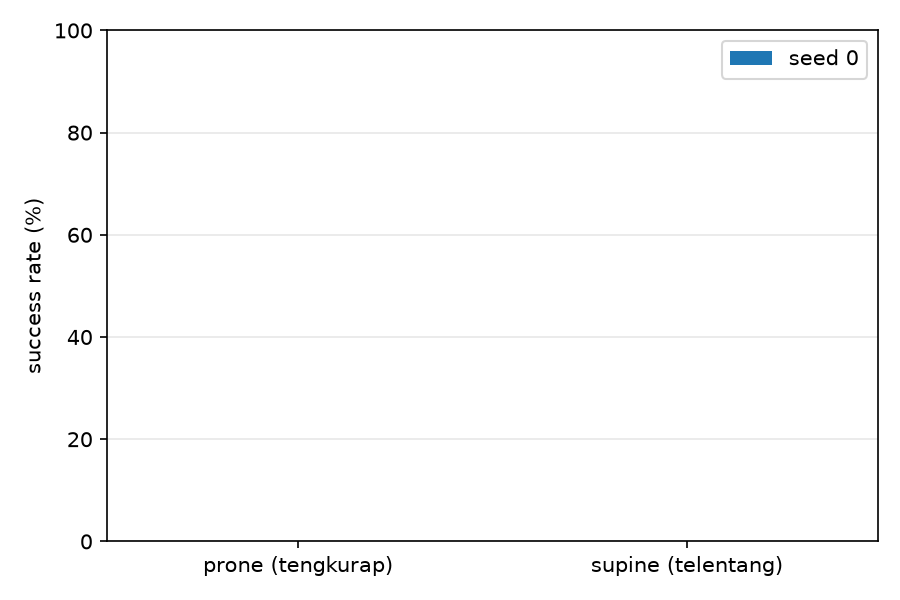
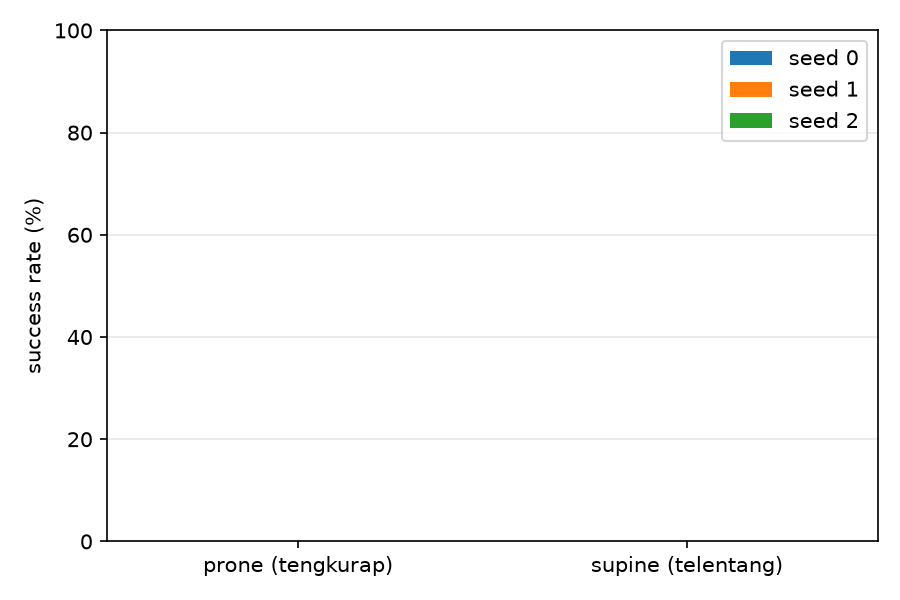
final evaluation: 0/100 on all models, diagnosis notes

Changed region(s): [[0.8089, 0.12, 0.9644, 0.24]]

diff --git a/results/summary.md b/results/summary.md
@@ -1,11 +1,15 @@
-Berkas dibaca: 1 (eval_logs_c2_s0_crossq_k1-standup-v0_1_k1-standup-v0_from0.csv)
+Berkas dibaca: 3 (eval_models_final_s0_from30.csv, eval_models_final_s1_from30.csv, eval_models_final_s2_from30.csv)
 
 ## Hasil per seed dan postur
 
 | Seed | Postur | Berhasil | Success rate | CI 95% (Wilson) | Median time-to-stand (s) | Terbalik/terhenti | Habis waktu |
 | --- | --- | --- | --- | --- | --- | --- | --- |
-| 0 | prone | 0/30 | 0.0% | -0.0-11.4% | - | 0 | 30 |
-| 0 | supine | 0/30 | 0.0% | -0.0-11.4% | - | 2 | 28 |
+| 0 | prone | 0/100 | 0.0% | 0.0-3.7% | - | 3 | 97 |
+| 0 | supine | 0/100 | 0.0% | 0.0-3.7% | - | 2 | 98 |
+| 1 | prone | 0/100 | 0.0% | 0.0-3.7% | - | 3 | 97 |
+| 1 | supine | 0/100 | 0.0% | 0.0-3.7% | - | 3 | 97 |
+| 2 | prone | 0/100 | 0.0% | 0.0-3.7% | - | 4 | 96 |
+| 2 | supine | 0/100 | 0.0% | 0.0-3.7% | - | 1 | 99 |
 
 ## Gabungan semua seed
 
@@ -13,10 +17,14 @@ Tiap seed adalah run terpisah. CI gabungan hanya perkiraan kasar karena semua se
 
 | Postur | Rata-rata antar seed | Simpangan baku antar seed | Gabungan | CI 95% gabungan |
 | --- | --- | --- | --- | --- |
-| prone | 0.0% | - | 0/30 | -0.0-11.4% |
-| supine | 0.0% | - | 0/30 | -0.0-11.4% |
+| prone | 0.0% | 0.0% | 0/300 | 0.0-1.3% |
+| supine | 0.0% | 0.0% | 0/300 | 0.0-1.3% |
 
 ## Contoh episode untuk video (nomor posisi uji, dipakai di record.py)
 
-- seed 0, prone: sukses tercepat [] | gagal [(0, 'timeout'), (1, 'timeout'), (2, 'timeout'), (3, 'timeout')]
-- seed 0, supine: sukses tercepat [] | gagal [(0, 'timeout'), (1, 'timeout'), (2, 'timeout'), (3, 'timeout')]
+- seed 0, prone: sukses tercepat [] | gagal [(30, 'timeout'), (31, 'timeout'), (32, 'terminated'), (33, 'timeout')]
+- seed 0, supine: sukses tercepat [] | gagal [(30, 'timeout'), (31, 'timeout'), (32, 'timeout'), (33, 'timeout')]
+- seed 1, prone: sukses tercepat [] | gagal [(30, 'timeout'), (31, 'timeout'), (32, 'terminated'), (33, 'timeout')]
+- seed 1, supine: sukses tercepat [] | gagal [(30, 'timeout'), (31, 'timeout'), (32, 'timeout'), (33, 'timeout')]
+- seed 2, prone: sukses tercepat [] | gagal [(30, 'timeout'), (31, 'timeout'), (32, 'timeout'), (33, 'timeout')]
+- seed 2, supine: sukses tercepat [] | gagal [(30, 'timeout'), (31, 'timeout'), (32, 'timeout'), (33, 'timeout')]
